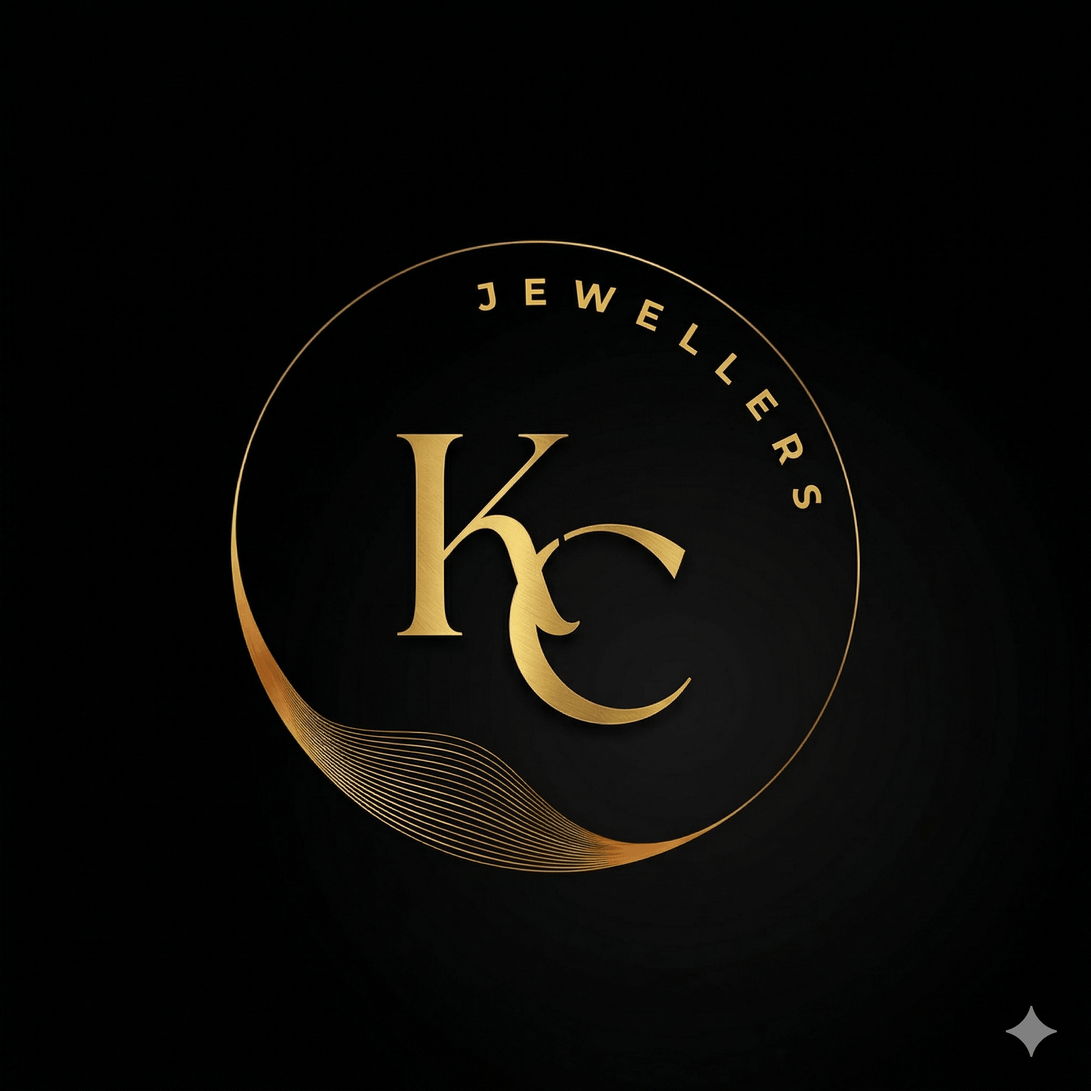
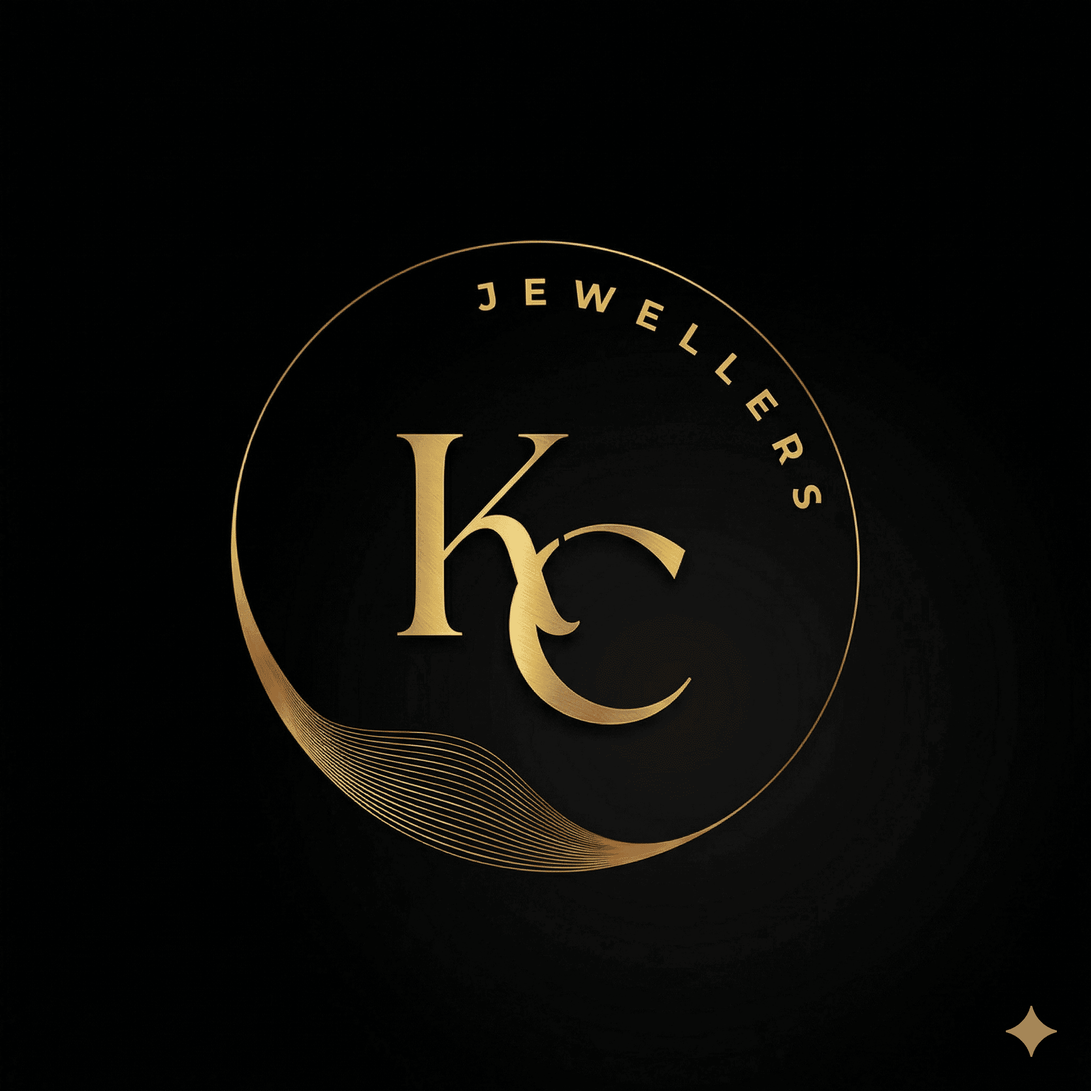
Reduced image file size

diff --git a/client/src/lib/og-image.ts b/client/src/lib/og-image.ts
@@ -1,18 +1,15 @@
 /**
  * Open Graph / WhatsApp link preview image.
  *
- * File on disk (from repo root): `client/public/og/kc-jewellers.png`
- * Served URL: `/og/kc-jewellers.png`
+ * Source asset: `client/public/og/kc-jewellers.png` (designer export).
+ * Crawler-friendly build: `client/public/og/kc-jewellers.jpg` (run
+ * `node scripts/optimize-og-image.mjs` after changing the PNG).
  *
- * We keep the asset under `public/` and set it explicitly in `metadata` so we
- * don’t rely only on Next’s `app/opengraph-image` convention (which can stack
- * with `metadata.openGraph.images` and confuse crawlers).
+ * Use a **clean URL** (no query string): some crawlers mishandle `?v=` on
+ * og:image. Prefer renaming the file to bust cache when you replace the art.
  *
- * Bump `OG_IMAGE_VERSION` whenever you replace the PNG so WhatsApp / Facebook
- * treat it as a new URL and refresh their cache (they cache og:image aggressively).
+ * Served URL: `/og/kc-jewellers.jpg`
  */
-export const OG_IMAGE_VERSION = "3";
-
 export function getOgImagePath(): string {
-  return `/og/kc-jewellers.png?v=${OG_IMAGE_VERSION}`;
+  return "/og/kc-jewellers.jpg";
 }

diff --git a/client/src/app/shared/[uuid]/page.tsx b/client/src/app/shared/[uuid]/page.tsx
@@ -14,6 +14,7 @@ export async function generateMetadata({
   const ogImage = getOgImagePath();
 
   return {
+    metadataBase: new URL(site),
     title: "Shared catalogue",
     description:
       "KC Jewellers — curated jewellery selection with live pricing incl. GST.",
@@ -29,8 +30,8 @@ export async function generateMetadata({
       images: [
         {
           url: ogImage,
-          width: 2048,
-          height: 2048,
+          width: 1200,
+          height: 1200,
           alt: "KC Jewellers",
         },
       ],

diff --git a/client/src/app/layout.tsx b/client/src/app/layout.tsx
@@ -73,8 +73,8 @@ export const metadata: Metadata = {
     images: [
       {
         url: ogImage,
-        width: 2048,
-        height: 2048,
+        width: 1200,
+        height: 1200,
         alt: "KC Jewellers",
       },
     ],
